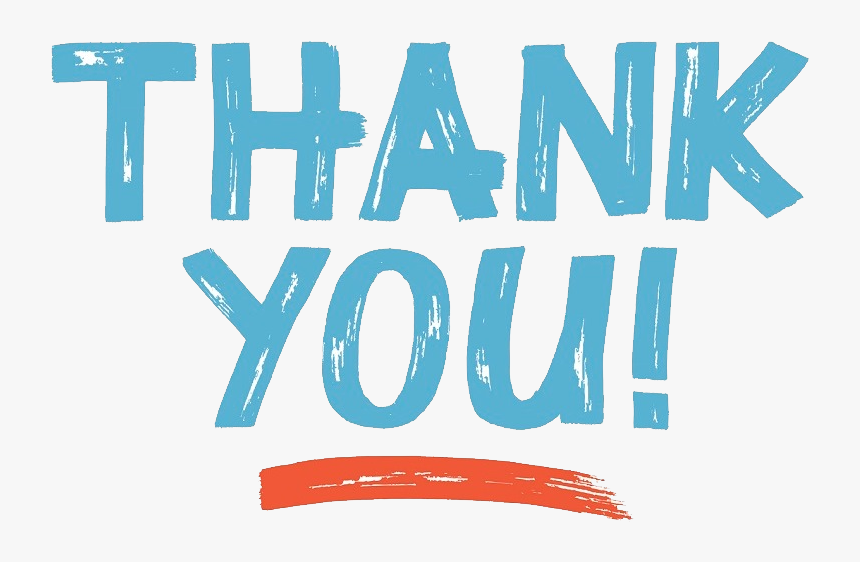
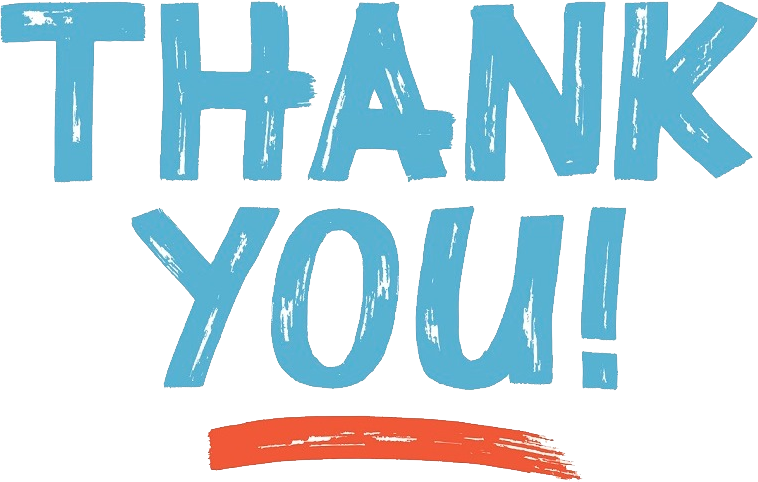
Deploy website
Deploy website version based on 8159fe08eb38db306096c438174084038515b844

diff --git a/docs/profile/thanks.html b/docs/profile/thanks.html
@@ -1,11 +1,11 @@
-<!DOCTYPE html><html lang="en"><head><meta charSet="utf-8"/><meta http-equiv="X-UA-Compatible" content="IE=edge"/><title>Thanks · Rajesh Detroja</title><meta name="viewport" content="width=device-width"/><meta name="generator" content="Docusaurus"/><meta name="description" content="&lt;br&gt;"/><meta name="docsearch:language" content="en"/><meta property="og:title" content="Thanks · Rajesh Detroja"/><meta property="og:type" content="website"/><meta property="og:url" content="https://rajesh-detroja.github.io/home/"/><meta property="og:description" content="&lt;br&gt;"/><meta property="og:image" content="https://rajesh-detroja.github.io/home/img/undraw_online.svg"/><meta name="twitter:card" content="summary"/><meta name="twitter:image" content="https://rajesh-detroja.github.io/home/img/undraw_tweetstorm.svg"/><link rel="shortcut icon" href="/home/img/favicon.ico"/><link rel="stylesheet" href="https://cdn.jsdelivr.net/docsearch.js/1/docsearch.min.css"/><link rel="stylesheet" href="//cdnjs.cloudflare.com/ajax/libs/highlight.js/9.12.0/styles/xt256.min.css"/><link rel="alternate" type="application/atom+xml" href="https://rajesh-detroja.github.io/home/blog/atom.xml" title="Rajesh Detroja Blog ATOM Feed"/><link rel="alternate" type="application/rss+xml" href="https://rajesh-detroja.github.io/home/blog/feed.xml" title="Rajesh Detroja Blog RSS Feed"/><link rel="stylesheet" href="/home/css/code-block-buttons.css"/><link rel="stylesheet" href="/home/css/profile.css"/><script type="text/javascript" src="https://buttons.github.io/buttons.js"></script><script type="text/javascript" src="https://cdnjs.cloudflare.com/ajax/libs/clipboard.js/2.0.0/clipboard.min.js"></script><script type="text/javascript" src="/home/js/code-block-buttons.js"></script><script src="/home/js/scrollSpy.js"></script><link rel="stylesheet" href="/home/css/prism.css"/><link rel="stylesheet" href="/home/css/main.css"/><script src="/home/js/codetabs.js"></script></head><body class="sideNavVisible separateOnPageNav"><div class="fixedHeaderContainer"><div class="headerWrapper wrapper"><header><a href="/home/"><img class="logo" src="/home/img/favicon.ico" alt="Rajesh Detroja"/><h2 class="headerTitleWithLogo">Rajesh Detroja</h2></a><div class="navigationWrapper navigationSlider"><nav class="slidingNav"><ul class="nav-site nav-site-internal"><li class=""><a href="/home/index" target="_self">Home</a></li><li class=""><a href="/home/docs/profile/about" target="_self">Profile</a></li><li class=""><a href="/home/docs/bash/bash_1" target="_self">Docs</a></li><li class=""><a href="/home/blog/" target="_self">Blogs</a></li><li class="navSearchWrapper reactNavSearchWrapper"><input type="text" id="search_input_react" placeholder="Search" title="Search"/></li></ul></nav></div></header></div></div><div class="navPusher"><div class="docMainWrapper wrapper"><div class="container mainContainer docsContainer"><div class="wrapper"><div class="post"><header class="postHeader"><h1 id="__docusaurus" class="postHeaderTitle">Thanks</h1></header><article><div><span><p><br></p>
+<!DOCTYPE html><html lang="en"><head><meta charSet="utf-8"/><meta http-equiv="X-UA-Compatible" content="IE=edge"/><title>Thanks! · Rajesh Detroja</title><meta name="viewport" content="width=device-width"/><meta name="generator" content="Docusaurus"/><meta name="description" content="&lt;br&gt;"/><meta name="docsearch:language" content="en"/><meta property="og:title" content="Thanks! · Rajesh Detroja"/><meta property="og:type" content="website"/><meta property="og:url" content="https://rajesh-detroja.github.io/home/"/><meta property="og:description" content="&lt;br&gt;"/><meta property="og:image" content="https://rajesh-detroja.github.io/home/img/undraw_online.svg"/><meta name="twitter:card" content="summary"/><meta name="twitter:image" content="https://rajesh-detroja.github.io/home/img/undraw_tweetstorm.svg"/><link rel="shortcut icon" href="/home/img/favicon.ico"/><link rel="stylesheet" href="https://cdn.jsdelivr.net/docsearch.js/1/docsearch.min.css"/><link rel="stylesheet" href="//cdnjs.cloudflare.com/ajax/libs/highlight.js/9.12.0/styles/xt256.min.css"/><link rel="alternate" type="application/atom+xml" href="https://rajesh-detroja.github.io/home/blog/atom.xml" title="Rajesh Detroja Blog ATOM Feed"/><link rel="alternate" type="application/rss+xml" href="https://rajesh-detroja.github.io/home/blog/feed.xml" title="Rajesh Detroja Blog RSS Feed"/><link rel="stylesheet" href="/home/css/code-block-buttons.css"/><link rel="stylesheet" href="/home/css/profile.css"/><script type="text/javascript" src="https://buttons.github.io/buttons.js"></script><script type="text/javascript" src="https://cdnjs.cloudflare.com/ajax/libs/clipboard.js/2.0.0/clipboard.min.js"></script><script type="text/javascript" src="/home/js/code-block-buttons.js"></script><script src="/home/js/scrollSpy.js"></script><link rel="stylesheet" href="/home/css/prism.css"/><link rel="stylesheet" href="/home/css/main.css"/><script src="/home/js/codetabs.js"></script></head><body class="sideNavVisible separateOnPageNav"><div class="fixedHeaderContainer"><div class="headerWrapper wrapper"><header><a href="/home/"><img class="logo" src="/home/img/favicon.ico" alt="Rajesh Detroja"/><h2 class="headerTitleWithLogo">Rajesh Detroja</h2></a><div class="navigationWrapper navigationSlider"><nav class="slidingNav"><ul class="nav-site nav-site-internal"><li class=""><a href="/home/index" target="_self">Home</a></li><li class=""><a href="/home/docs/profile/about" target="_self">Profile</a></li><li class=""><a href="/home/docs/bash/bash_1" target="_self">Docs</a></li><li class=""><a href="/home/blog/" target="_self">Blogs</a></li><li class="navSearchWrapper reactNavSearchWrapper"><input type="text" id="search_input_react" placeholder="Search" title="Search"/></li></ul></nav></div></header></div></div><div class="navPusher"><div class="docMainWrapper wrapper"><div class="container mainContainer docsContainer"><div class="wrapper"><div class="post"><header class="postHeader"><h1 id="__docusaurus" class="postHeaderTitle">Thanks!</h1></header><article><div><span><p><br></p>
 <p>Dear Friend,</p>
-<p>Thank you for your email.</p>
-<p>I will get back to you soon!</p>
+<p>Thank you for your Message.</p>
+<p>I will get back to you soon.</p>
 <p><br></p>
 <p><strong>– Rajesh detroja</strong></p>
 <p><br></p>
-<p><img align="left" style="width: 300px; height: 180px;" src="../assets/img/profile//thanks/thanks_1.png"></img></p>
+<p><img align="left" style="width: 300px; height: 180px;" src="../assets/img/profile//thanks/thanks.png"></img></p>
 </span></div></article></div><div class="docs-prevnext"></div></div></div><nav class="onPageNav"></nav></div><footer class="nav-footer" id="footer"><section class="copyright">Copyright © 2020 Rajesh Detroja</section></footer></div><script type="text/javascript" src="https://cdn.jsdelivr.net/docsearch.js/1/docsearch.min.js"></script><script>window.fbAsyncInit = function() {FB.init({appId:'351771359141773',xfbml:true,version:'v2.7'});};(function(d, s, id){var js, fjs = d.getElementsByTagName(s)[0];if (d.getElementById(id)) {return;}js = d.createElement(s); js.id = id;js.src = '//connect.facebook.net/en_US/sdk.js';fjs.parentNode.insertBefore(js, fjs);}(document, 'script','facebook-jssdk'));
                 </script><script>
                 document.addEventListener('keyup', function(e) {

diff --git a/docs/profile/thanks/index.html b/docs/profile/thanks/index.html
@@ -1,11 +1,11 @@
-<!DOCTYPE html><html lang="en"><head><meta charSet="utf-8"/><meta http-equiv="X-UA-Compatible" content="IE=edge"/><title>Thanks · Rajesh Detroja</title><meta name="viewport" content="width=device-width"/><meta name="generator" content="Docusaurus"/><meta name="description" content="&lt;br&gt;"/><meta name="docsearch:language" content="en"/><meta property="og:title" content="Thanks · Rajesh Detroja"/><meta property="og:type" content="website"/><meta property="og:url" content="https://rajesh-detroja.github.io/home/"/><meta property="og:description" content="&lt;br&gt;"/><meta property="og:image" content="https://rajesh-detroja.github.io/home/img/undraw_online.svg"/><meta name="twitter:card" content="summary"/><meta name="twitter:image" content="https://rajesh-detroja.github.io/home/img/undraw_tweetstorm.svg"/><link rel="shortcut icon" href="/home/img/favicon.ico"/><link rel="stylesheet" href="https://cdn.jsdelivr.net/docsearch.js/1/docsearch.min.css"/><link rel="stylesheet" href="//cdnjs.cloudflare.com/ajax/libs/highlight.js/9.12.0/styles/xt256.min.css"/><link rel="alternate" type="application/atom+xml" href="https://rajesh-detroja.github.io/home/blog/atom.xml" title="Rajesh Detroja Blog ATOM Feed"/><link rel="alternate" type="application/rss+xml" href="https://rajesh-detroja.github.io/home/blog/feed.xml" title="Rajesh Detroja Blog RSS Feed"/><link rel="stylesheet" href="/home/css/code-block-buttons.css"/><link rel="stylesheet" href="/home/css/profile.css"/><script type="text/javascript" src="https://buttons.github.io/buttons.js"></script><script type="text/javascript" src="https://cdnjs.cloudflare.com/ajax/libs/clipboard.js/2.0.0/clipboard.min.js"></script><script type="text/javascript" src="/home/js/code-block-buttons.js"></script><script src="/home/js/scrollSpy.js"></script><link rel="stylesheet" href="/home/css/prism.css"/><link rel="stylesheet" href="/home/css/main.css"/><script src="/home/js/codetabs.js"></script></head><body class="sideNavVisible separateOnPageNav"><div class="fixedHeaderContainer"><div class="headerWrapper wrapper"><header><a href="/home/"><img class="logo" src="/home/img/favicon.ico" alt="Rajesh Detroja"/><h2 class="headerTitleWithLogo">Rajesh Detroja</h2></a><div class="navigationWrapper navigationSlider"><nav class="slidingNav"><ul class="nav-site nav-site-internal"><li class=""><a href="/home/index" target="_self">Home</a></li><li class=""><a href="/home/docs/profile/about" target="_self">Profile</a></li><li class=""><a href="/home/docs/bash/bash_1" target="_self">Docs</a></li><li class=""><a href="/home/blog/" target="_self">Blogs</a></li><li class="navSearchWrapper reactNavSearchWrapper"><input type="text" id="search_input_react" placeholder="Search" title="Search"/></li></ul></nav></div></header></div></div><div class="navPusher"><div class="docMainWrapper wrapper"><div class="container mainContainer docsContainer"><div class="wrapper"><div class="post"><header class="postHeader"><h1 id="__docusaurus" class="postHeaderTitle">Thanks</h1></header><article><div><span><p><br></p>
+<!DOCTYPE html><html lang="en"><head><meta charSet="utf-8"/><meta http-equiv="X-UA-Compatible" content="IE=edge"/><title>Thanks! · Rajesh Detroja</title><meta name="viewport" content="width=device-width"/><meta name="generator" content="Docusaurus"/><meta name="description" content="&lt;br&gt;"/><meta name="docsearch:language" content="en"/><meta property="og:title" content="Thanks! · Rajesh Detroja"/><meta property="og:type" content="website"/><meta property="og:url" content="https://rajesh-detroja.github.io/home/"/><meta property="og:description" content="&lt;br&gt;"/><meta property="og:image" content="https://rajesh-detroja.github.io/home/img/undraw_online.svg"/><meta name="twitter:card" content="summary"/><meta name="twitter:image" content="https://rajesh-detroja.github.io/home/img/undraw_tweetstorm.svg"/><link rel="shortcut icon" href="/home/img/favicon.ico"/><link rel="stylesheet" href="https://cdn.jsdelivr.net/docsearch.js/1/docsearch.min.css"/><link rel="stylesheet" href="//cdnjs.cloudflare.com/ajax/libs/highlight.js/9.12.0/styles/xt256.min.css"/><link rel="alternate" type="application/atom+xml" href="https://rajesh-detroja.github.io/home/blog/atom.xml" title="Rajesh Detroja Blog ATOM Feed"/><link rel="alternate" type="application/rss+xml" href="https://rajesh-detroja.github.io/home/blog/feed.xml" title="Rajesh Detroja Blog RSS Feed"/><link rel="stylesheet" href="/home/css/code-block-buttons.css"/><link rel="stylesheet" href="/home/css/profile.css"/><script type="text/javascript" src="https://buttons.github.io/buttons.js"></script><script type="text/javascript" src="https://cdnjs.cloudflare.com/ajax/libs/clipboard.js/2.0.0/clipboard.min.js"></script><script type="text/javascript" src="/home/js/code-block-buttons.js"></script><script src="/home/js/scrollSpy.js"></script><link rel="stylesheet" href="/home/css/prism.css"/><link rel="stylesheet" href="/home/css/main.css"/><script src="/home/js/codetabs.js"></script></head><body class="sideNavVisible separateOnPageNav"><div class="fixedHeaderContainer"><div class="headerWrapper wrapper"><header><a href="/home/"><img class="logo" src="/home/img/favicon.ico" alt="Rajesh Detroja"/><h2 class="headerTitleWithLogo">Rajesh Detroja</h2></a><div class="navigationWrapper navigationSlider"><nav class="slidingNav"><ul class="nav-site nav-site-internal"><li class=""><a href="/home/index" target="_self">Home</a></li><li class=""><a href="/home/docs/profile/about" target="_self">Profile</a></li><li class=""><a href="/home/docs/bash/bash_1" target="_self">Docs</a></li><li class=""><a href="/home/blog/" target="_self">Blogs</a></li><li class="navSearchWrapper reactNavSearchWrapper"><input type="text" id="search_input_react" placeholder="Search" title="Search"/></li></ul></nav></div></header></div></div><div class="navPusher"><div class="docMainWrapper wrapper"><div class="container mainContainer docsContainer"><div class="wrapper"><div class="post"><header class="postHeader"><h1 id="__docusaurus" class="postHeaderTitle">Thanks!</h1></header><article><div><span><p><br></p>
 <p>Dear Friend,</p>
-<p>Thank you for your email.</p>
-<p>I will get back to you soon!</p>
+<p>Thank you for your Message.</p>
+<p>I will get back to you soon.</p>
 <p><br></p>
 <p><strong>– Rajesh detroja</strong></p>
 <p><br></p>
-<p><img align="left" style="width: 300px; height: 180px;" src="../assets/img/profile//thanks/thanks_1.png"></img></p>
+<p><img align="left" style="width: 300px; height: 180px;" src="../assets/img/profile//thanks/thanks.png"></img></p>
 </span></div></article></div><div class="docs-prevnext"></div></div></div><nav class="onPageNav"></nav></div><footer class="nav-footer" id="footer"><section class="copyright">Copyright © 2020 Rajesh Detroja</section></footer></div><script type="text/javascript" src="https://cdn.jsdelivr.net/docsearch.js/1/docsearch.min.js"></script><script>window.fbAsyncInit = function() {FB.init({appId:'351771359141773',xfbml:true,version:'v2.7'});};(function(d, s, id){var js, fjs = d.getElementsByTagName(s)[0];if (d.getElementById(id)) {return;}js = d.createElement(s); js.id = id;js.src = '//connect.facebook.net/en_US/sdk.js';fjs.parentNode.insertBefore(js, fjs);}(document, 'script','facebook-jssdk'));
                 </script><script>
                 document.addEventListener('keyup', function(e) {
